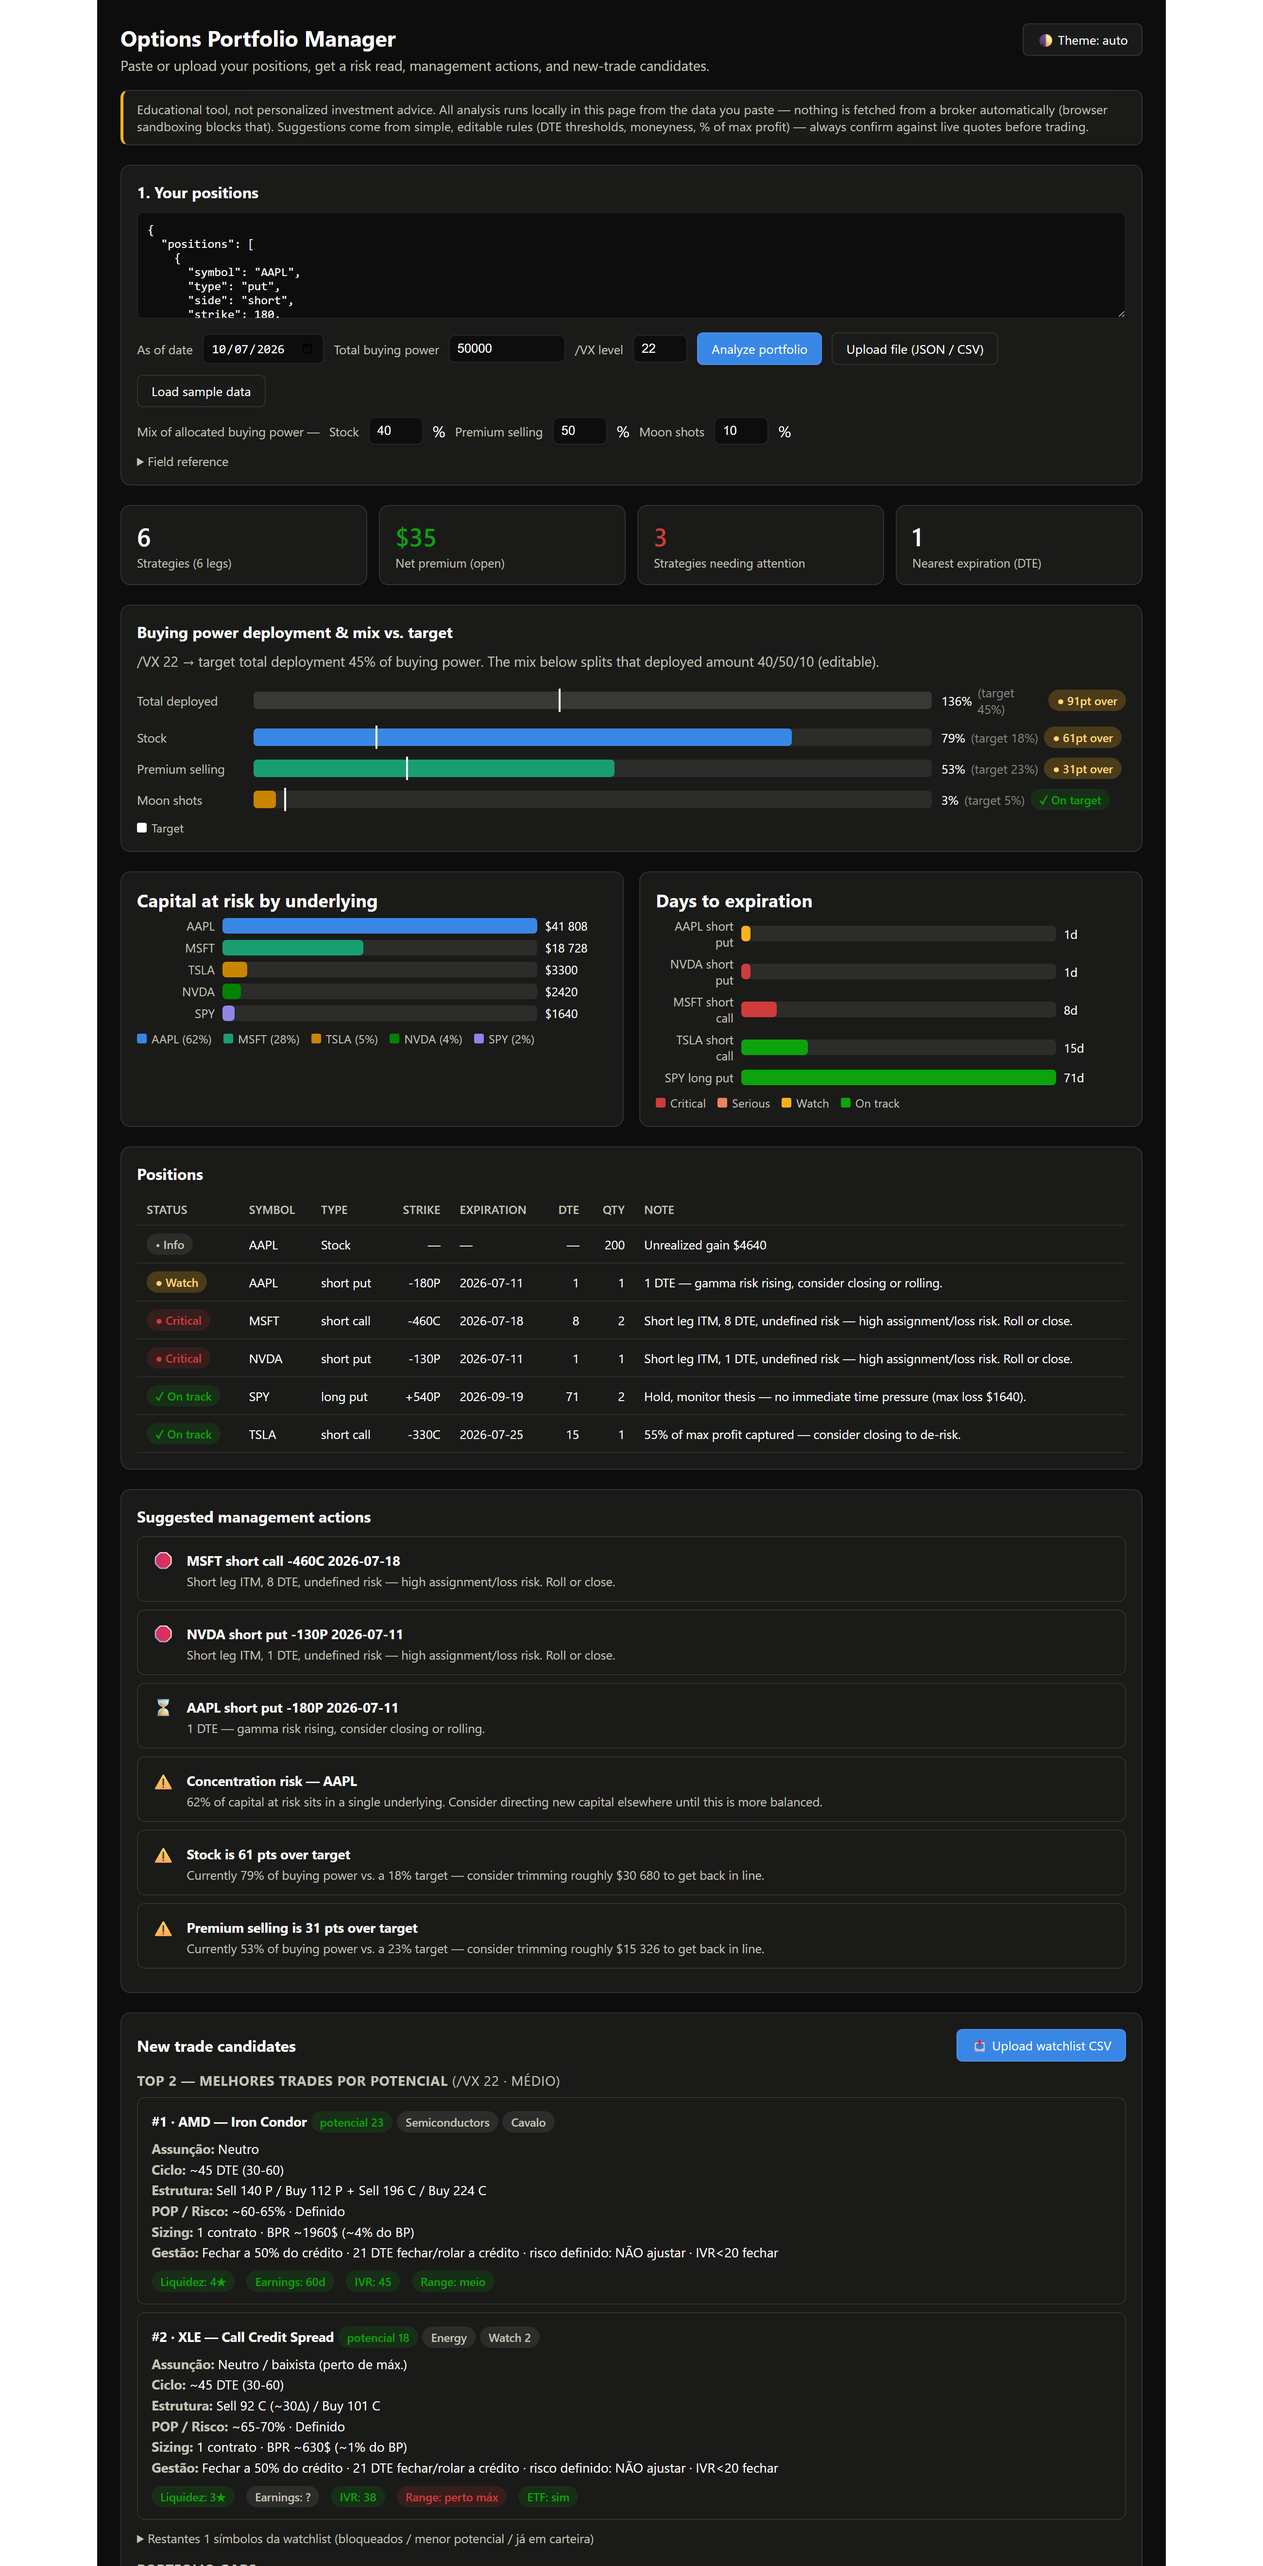
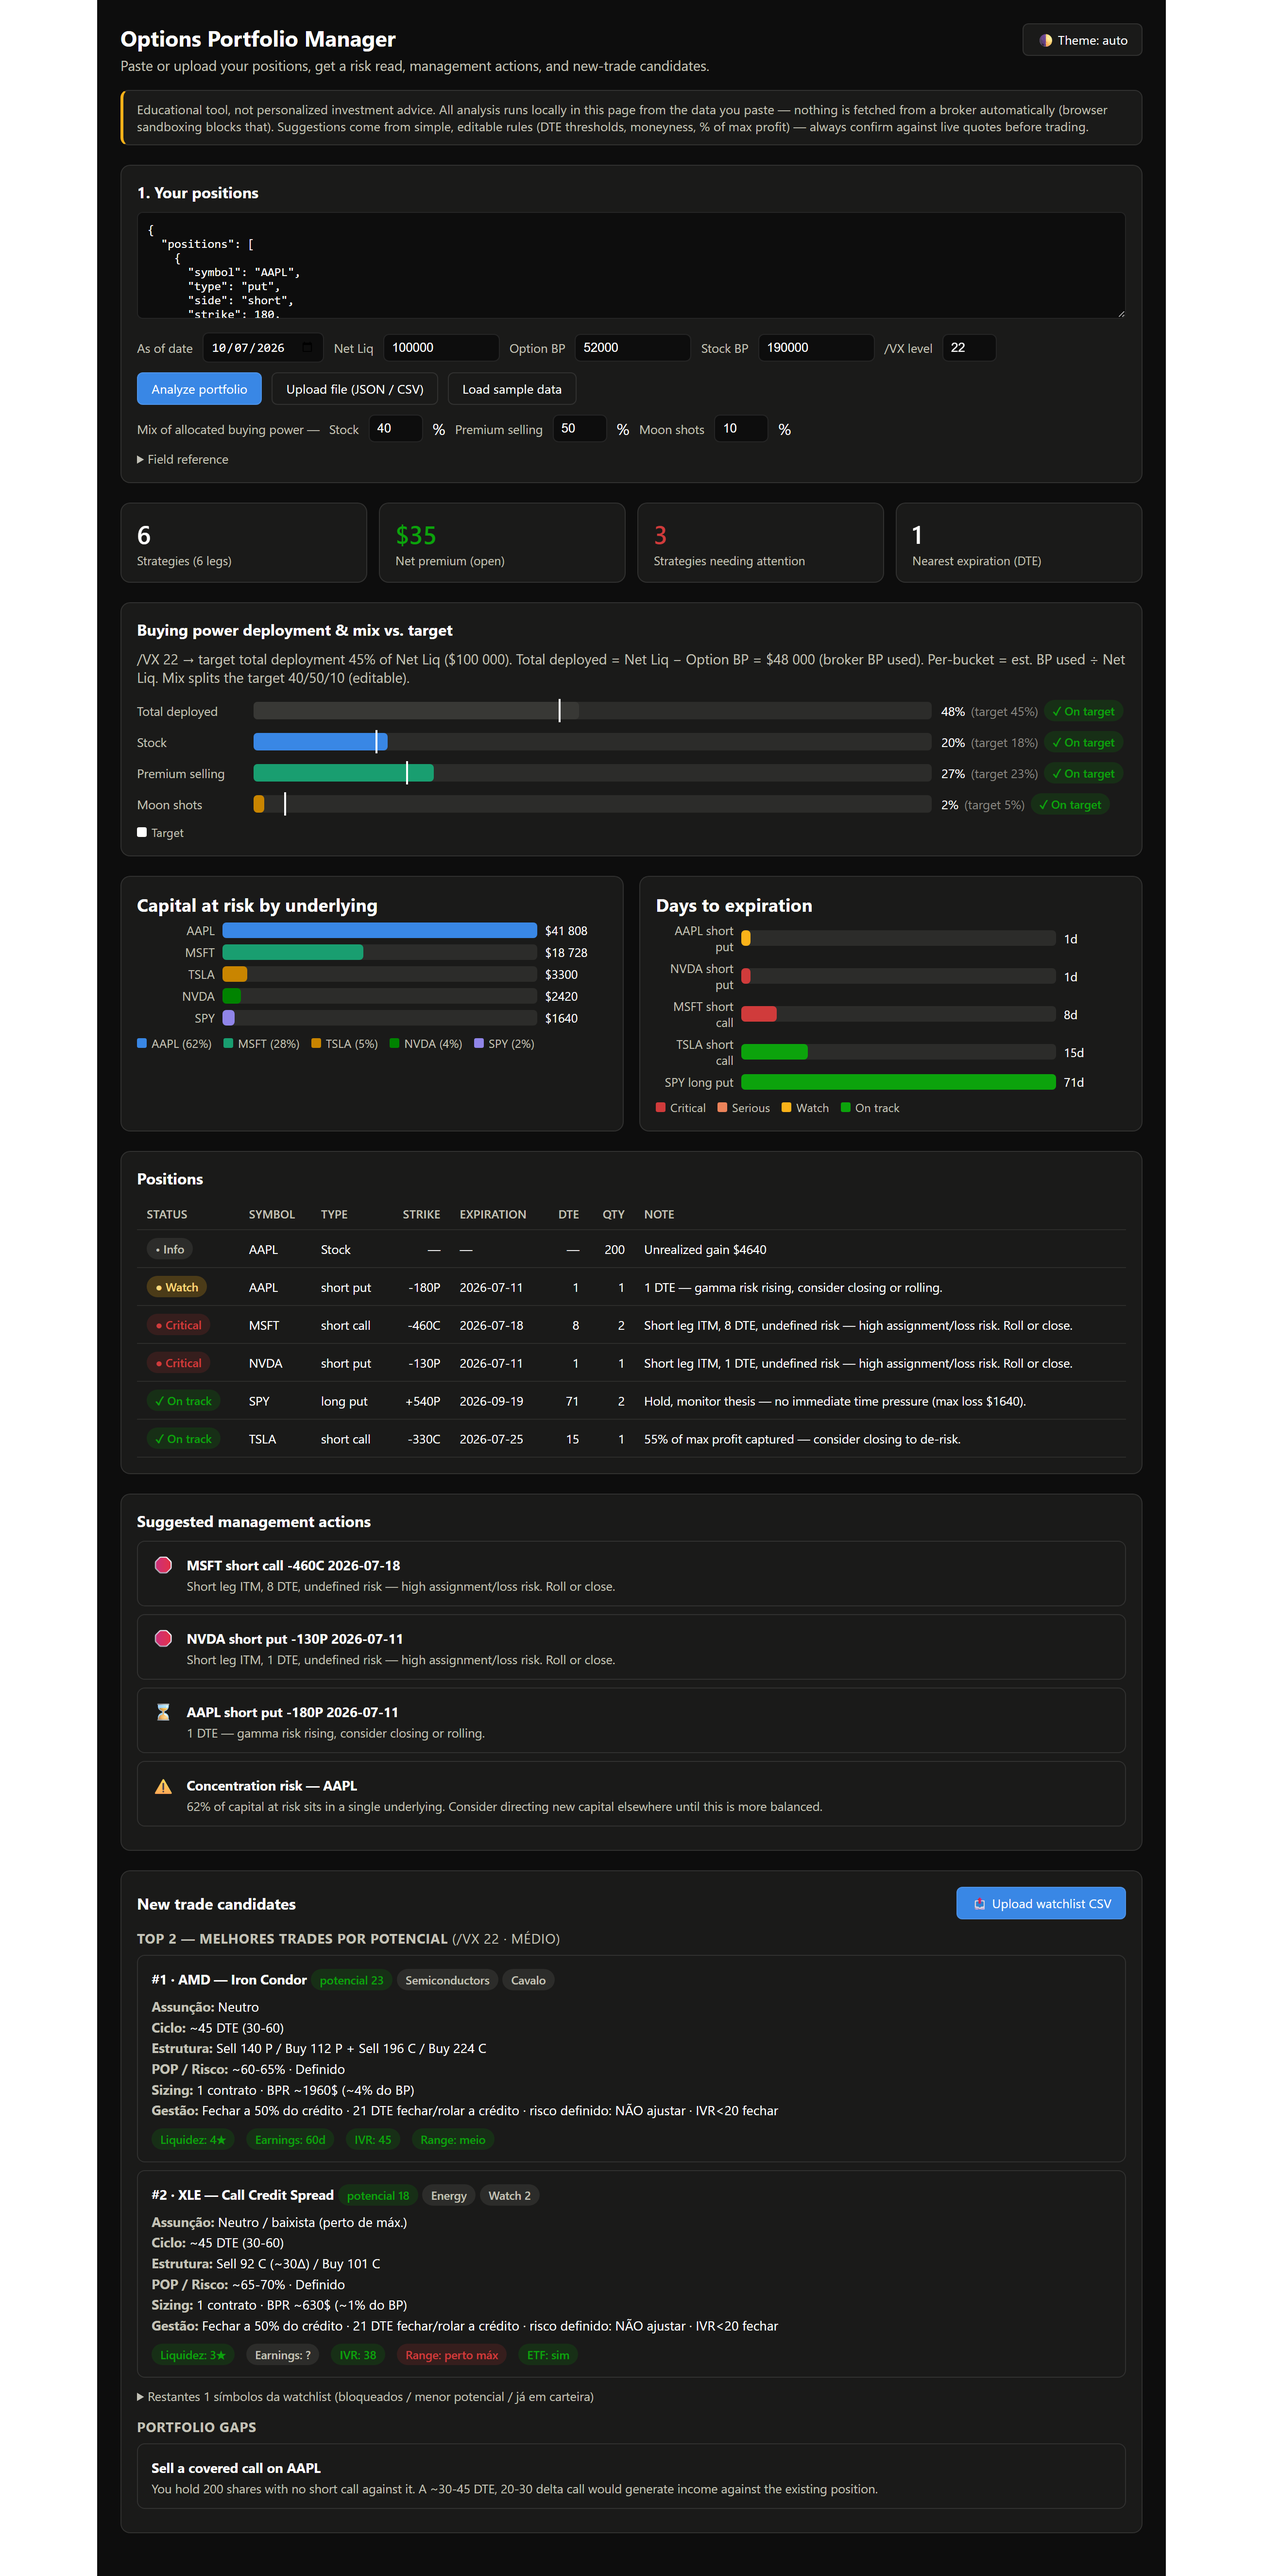
Fix deployment math: base on Net Liq and actual BP, not notional
Total deployed = Net Liq − Option BP (matches the broker's BP Usage), shown as
% of Net Liq. Per-bucket = estimated BP used ÷ Net Liq; stock now counts Reg-T
margin (~50% of market value) so buckets reconcile with the total. Inputs are
now three account fields (Net Liq, Option BP, Stock BP), which the Python fetches
from the Tastytrade balances API (net-liquidating-value, derivative-buying-power,
equity-buying-power). Sample account values tuned to reconcile; README overview
screenshot refreshed.

diff --git a/dashboard-template.html b/dashboard-template.html
@@ -206,8 +206,12 @@ details summary { cursor: pointer; font-size: 0.8rem; color: var(--text-secondar
     <div class="row">
       <label for="asOf">As of date</label>
       <input type="date" id="asOf">
-      <label for="bp">Total buying power</label>
-      <input type="number" class="bp" id="bp" placeholder="e.g. 50000" min="0" step="100">
+      <label for="netLiq">Net Liq</label>
+      <input type="number" class="bp" id="netLiq" placeholder="e.g. 42200" min="0" step="100">
+      <label for="optionBp">Option BP</label>
+      <input type="number" class="bp" id="optionBp" placeholder="e.g. 33700" min="0" step="100">
+      <label for="stockBp">Stock BP</label>
+      <input type="number" class="bp" id="stockBp" placeholder="e.g. 67400" min="0" step="100">
       <label for="vix">/VX level</label>
       <input type="number" class="pct" id="vix" placeholder="e.g. 22" min="0" step="0.1">
       <button id="analyzeBtn">Analyze portfolio</button>
@@ -228,7 +232,7 @@ details summary { cursor: pointer; font-size: 0.8rem; color: var(--text-secondar
         Stock: <code>{symbol, type:"stock", qty, costBasis, underlyingPrice}</code>.
         Optional <code>watchlist</code> array for candidate screening: bare tickers <code>["AMD","COST"]</code>, or enriched objects <code>{symbol, list, price, ivr, liquidity (1-4★), beta, earningsDays, yearHigh, yearLow, etf}</code>. Each candidate is scored against the entry rules (liquidity ≥3★, IVR&gt;30 to sell premium, no earnings within 45 DTE, no long near 52-wk highs, short only ETFs near lows) and given a structure recommendation; missing fields show as "?" and are flagged to confirm manually.
         Strategy grouping: option legs sharing an underlying and expiration are analyzed as one strategy (vertical, strangle, iron condor, …), so risk and buying power reflect the combined structure — a defined-risk spread uses width − net credit, not naked margin on each leg; a short call covered by held shares waives its margin.
-        Buying-power bucketing: stock = market value; premium selling = net-credit structures with a short leg (defined-risk = width − credit; naked = ~20% of underlying notional, a rough Reg-T-style estimate, not your broker's figure); moon shots = net-debit / long-only structures, capital = debit paid.
+        Deployment: <strong>Total deployed = Net Liq − Option BP</strong> (equals your broker's BP Usage), shown as a % of Net Liq. Per-bucket = estimated BP used ÷ Net Liq. Buckets: stock = ~50% Reg-T margin of market value; premium selling = net-credit structures with a short leg (defined-risk = width − credit; naked = ~20% of underlying notional, a rough Reg-T-style estimate, not your broker's figure); moon shots = net-debit / long-only structures, capital = debit paid.
         Total deployment cap is set by /VX (rulebook): ≥25 → deploy up to 50% of total buying power; 20-25 → 45%; 18-20 → 40%; below 18 → 30%. The stock/premium/moon-shot mix percentages above apply to that deployed (allocated) portion, not total buying power.
         CSV upload: a header row plus columns like Symbol, Type (call/put/stock), Quantity (negative = short), Strike, Expiration, Price/Avg Open Price, Mark, Underlying Price. OCC option symbols (e.g. "AAPL 260711P00180000") are decoded automatically. The parsed result lands in the box above for review — nothing leaves this page.
       </div>
@@ -311,7 +315,11 @@ const seriesHex = ['#2a78d6','#1baf7a','#eda100','#008300','#4a3aa7','#e34948','
 document.getElementById('asOf').valueAsDate = new Date();
 function loadSample() {
   document.getElementById('posInput').value = JSON.stringify(SAMPLE, null, 2);
-  document.getElementById('bp').value = 50000;
+  // Sample account chosen so deployed (Net Liq − Option BP ≈ $48k) reconciles
+  // with the sample positions' estimated bucket BP (stock 20k + premium 26.5k + moon 1.5k).
+  document.getElementById('netLiq').value = 100000;
+  document.getElementById('optionBp').value = 52000;
+  document.getElementById('stockBp').value = 190000;
   document.getElementById('vix').value = 22;
 }
 document.getElementById('sampleBtn').addEventListener('click', loadSample);
@@ -528,7 +536,9 @@ function parseWatchlistCsv(text, asOf) {
 const EMBEDDED = /*__DATA__*/null/*__END__*/;
 if (EMBEDDED && EMBEDDED.data) {
   document.getElementById('posInput').value = JSON.stringify(EMBEDDED.data, null, 2);
-  if (EMBEDDED.buyingPower) document.getElementById('bp').value = EMBEDDED.buyingPower;
+  if (EMBEDDED.netLiq) document.getElementById('netLiq').value = EMBEDDED.netLiq;
+  if (EMBEDDED.optionBp) document.getElementById('optionBp').value = EMBEDDED.optionBp;
+  if (EMBEDDED.stockBp) document.getElementById('stockBp').value = EMBEDDED.stockBp;
   if (EMBEDDED.vix) document.getElementById('vix').value = EMBEDDED.vix;
   if (EMBEDDED.asOf) document.getElementById('asOf').value = EMBEDDED.asOf;
 } else {
@@ -580,7 +590,9 @@ function analyze() {
     return;
   }
   const asOf = document.getElementById('asOf').valueAsDate || new Date();
-  const bp = parseFloat(document.getElementById('bp').value) || 0;
+  const netLiq = parseFloat(document.getElementById('netLiq').value) || 0;
+  const optionBp = parseFloat(document.getElementById('optionBp').value) || 0;
+  const stockBp = parseFloat(document.getElementById('stockBp').value) || 0;
   const vixRaw = document.getElementById('vix').value;
   const vix = vixRaw === '' ? null : parseFloat(vixRaw);
   const mix = {
@@ -588,7 +600,7 @@ function analyze() {
     premium: (parseFloat(document.getElementById('tgtPremium').value) || 0) / 100,
     moon: (parseFloat(document.getElementById('tgtMoon').value) || 0) / 100,
   };
-  render(data.positions, applyRanges(data.watchlist || []), asOf, bp, mix, vix);
+  render(data.positions, applyRanges(data.watchlist || []), asOf, { netLiq, optionBp, stockBp }, mix, vix);
 }
 
 // ---- Strategy grouping ----
@@ -697,9 +709,12 @@ function makeOptionGroup(legs, asOf, stockShares) {
 function makeStockGroup(p) {
   const mult = p.multiplier || 1; // futures carry a point multiplier; equities = 1
   const notional = p.qty * p.underlyingPrice * mult;
+  // Capital deployed in stock = Reg-T margin (~50% of market value), so it
+  // reconciles with "deployed = Net Liq − Option BP". Futures notional is a placeholder.
+  const marginFactor = p.future ? 1 : 0.5;
   return {
     kind: 'stock', symbol: p.symbol, expiration: null, dte: null, legs: [p], shorts: [],
-    netCredit: 0, bucket: 'stock', bpUse: Math.max(0, notional), maxLoss: null,
+    netCredit: 0, bucket: 'stock', bpUse: Math.abs(notional) * marginFactor, maxLoss: null,
     definedRisk: true, covered: false, exposure: Math.abs(notional), mult, isFuture: !!p.future,
     structure: p.future ? 'Future' : 'Stock', strikes: '—', contracts: p.qty,
   };
@@ -976,7 +991,13 @@ function screenWatchlist(watchlist, heldSymbols, fit) {
 const statusIcon = { critical: '&#9679;', serious: '&#9679;', warning: '&#9679;', good: '&#10003;', info: '&#8226;' };
 const statusLabel = { critical: 'Critical', serious: 'Serious', warning: 'Watch', good: 'On track', info: 'Info' };
 
-function render(positions, watchlist, asOf, bp, mix, vix) {
+function render(positions, watchlist, asOf, acct, mix, vix) {
+  // Account capital (from Tastytrade): Net Liq, Option BP, Stock BP.
+  const netLiq = (acct && acct.netLiq) || 0;
+  const optionBp = (acct && acct.optionBp) || 0;
+  const stockBp = (acct && acct.stockBp) || 0;
+  // Total capital deployed = Net Liq − Option BP (equals the broker's BP Usage).
+  const deployedTotal = Math.max(0, netLiq - optionBp);
   document.getElementById('results').style.display = 'block';
 
   // Legs are grouped into strategies; every metric below is per-strategy.
@@ -1000,25 +1021,24 @@ function render(positions, watchlist, asOf, bp, mix, vix) {
   const bpUsed = { stock: 0, premium: 0, moon: 0 };
   groups.forEach(g => { bpUsed[g.bucket] += g.bpUse; });
 
-  const totalDeployed = bpUsed.stock + bpUsed.premium + bpUsed.moon;
   const deploymentTarget = vix != null && !isNaN(vix) ? vixDeploymentTarget(vix) : null;
 
   const bpPanel = document.getElementById('bpPanel');
   const bucketGaps = [];
-  if (bp > 0 && deploymentTarget != null) {
+  if (netLiq > 0 && deploymentTarget != null) {
     bpPanel.style.display = 'block';
     document.getElementById('bpSubtitle').textContent =
-      `/VX ${vix} → target total deployment ${Math.round(deploymentTarget*100)}% of buying power. The mix below splits that deployed amount 40/50/10 (editable).`;
+      `/VX ${vix} → target total deployment ${Math.round(deploymentTarget*100)}% of Net Liq (${fmtMoney(netLiq)}). Total deployed = Net Liq − Option BP = ${fmtMoney(deployedTotal)} (broker BP used). Per-bucket = est. BP used ÷ Net Liq. Mix splits the target 40/50/10 (editable).`;
 
     const rows2 = [
-      { key: 'deployed', label: 'Total deployed', color: 'var(--baseline)', actual: totalDeployed / bp, target: deploymentTarget },
-      { key: 'stock', label: 'Stock', color: seriesColors[0], actual: bpUsed.stock / bp, target: mix.stock * deploymentTarget },
-      { key: 'premium', label: 'Premium selling', color: seriesColors[1], actual: bpUsed.premium / bp, target: mix.premium * deploymentTarget },
-      { key: 'moon', label: 'Moon shots', color: seriesColors[2], actual: bpUsed.moon / bp, target: mix.moon * deploymentTarget },
+      { key: 'deployed', label: 'Total deployed', color: 'var(--baseline)', actual: deployedTotal / netLiq, target: deploymentTarget },
+      { key: 'stock', label: 'Stock', color: seriesColors[0], actual: bpUsed.stock / netLiq, target: mix.stock * deploymentTarget },
+      { key: 'premium', label: 'Premium selling', color: seriesColors[1], actual: bpUsed.premium / netLiq, target: mix.premium * deploymentTarget },
+      { key: 'moon', label: 'Moon shots', color: seriesColors[2], actual: bpUsed.moon / netLiq, target: mix.moon * deploymentTarget },
     ];
     document.getElementById('bpChart').innerHTML = rows2.map(b => {
       const diff = b.actual - b.target;
-      if (b.key !== 'deployed') bucketGaps.push({ ...b, diff, dollarGap: Math.abs(diff) * bp });
+      if (b.key !== 'deployed') bucketGaps.push({ ...b, diff, dollarGap: Math.abs(diff) * netLiq });
       let badge;
       if (Math.abs(diff) < 0.05) badge = `<span class="badge good">${statusIcon.good} On target</span>`;
       else if (diff > 0) badge = `<span class="badge warning">&#9679; ${Math.round(diff*100)}pt over</span>`;
@@ -1150,7 +1170,7 @@ function render(positions, watchlist, asOf, bp, mix, vix) {
     riskBySymbol,
     riskByTheme,
     totalRisk: totalNotional,
-    bp,
+    bp: optionBp,
     vix,
     premiumUnder: bucketGaps.some(g => g.key === 'premium' && g.diff <= -0.05),
   };

diff --git a/tastytrade_portfolio.py b/tastytrade_portfolio.py
@@ -289,13 +289,20 @@ def build_positions(token, acct):
     return positions
 
 
-def fetch_buying_power(token, acct):
+def fetch_balances(token, acct):
+    """Return (net_liq, option_bp, stock_bp) from the account balances.
+
+    option_bp = derivative buying power (available for options);
+    stock_bp  = equity buying power (available for stock, ~2x net liq on Reg-T).
+    Total capital deployed is net_liq - option_bp (the broker's BP usage).
+    """
     resp = api("GET", f"/accounts/{acct}/balances", token=token)
     d = resp["data"]
-    bp = num(d.get("derivative-buying-power")) or num(d.get("equity-buying-power"))
-    nlv = num(d.get("net-liquidating-value"))
-    print(f"  Buying power: {bp}   Net liq: {nlv}")
-    return bp
+    net_liq = num(d.get("net-liquidating-value"))
+    option_bp = num(d.get("derivative-buying-power"))
+    stock_bp = num(d.get("equity-buying-power"))
+    print(f"  Net liq: {net_liq}   Option BP: {option_bp}   Stock BP: {stock_bp}")
+    return net_liq, option_bp, stock_bp
 
 
 def chunks(seq, n=90):
@@ -409,7 +416,7 @@ def main():
     print("Fetching positions...")
     positions = build_positions(token, acct)
     print(f"  {len(positions)} positions mapped.")
-    bp = fetch_buying_power(token, acct)
+    net_liq, option_bp, stock_bp = fetch_balances(token, acct)
 
     # The API supplies positions + buying power; you upload your watchlist CSV in
     # the dashboard. That raw export has no 52-week columns, so pre-fetch the
@@ -424,7 +431,9 @@ def main():
     vix = input("/VX level (Enter to set later in the dashboard): ").strip()
     payload = {
         "data": {"positions": positions, "watchlist": []},
-        "buyingPower": bp,
+        "netLiq": net_liq,
+        "optionBp": option_bp,
+        "stockBp": stock_bp,
         "vix": float(vix) if vix else None,
         "asOf": date.today().isoformat(),
         "ranges": ranges,
